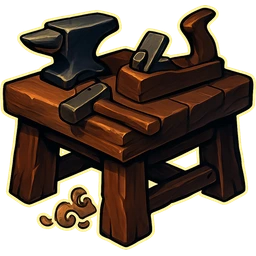
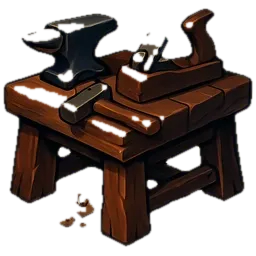
Grove menu: a slat per row, bigger sockets, no baked outline
Luke: "the menu items feel like a little too floaty, and they're not kind of
like, they don't have their own row, necessarily. It's hard to delineate
between the rows. And the sprites don't really make sense."
And: "We also never use white outlines on sprites."

Three separate faults, and only one of them was the sprites' fault.

ROWS HAD NO EDGES. A row was a transparent button on a wooden board, so the
only thing separating Backpack from Gear was the gap between two words --
which over grain reads as nothing, and makes each sprite look like it is
floating loose on the plank. A row is now a cut slat: raised face, lit top
edge, dark groove beneath, the way a stack of boards actually meets. The
groove is a box-shadow pair rather than a border, because a 1px rgba line over
grain disappears into the grain while a dark/light pair reads as a seam at any
brightness.

THE SPRITES WERE BEING SHOWN TOO SMALL TO READ. The socket was 44px with the
art at 34. These are busy paintings -- the workbench is an anvil AND a bench
AND a plane, the gear tile is a cuirass AND a sword AND a shield -- and at
34px they stop being objects and become texture. 52px socket, 46px art.

ui-bench.webp HAD A BAKED CREAM OUTLINE, which is against the house rule.
Measured rather than eyeballed: rim luminance 123.6 against a core of 33.4,
where the other four menu sprites sit within a few points of their own cores.
Stripped by killing rim pixels brighter than core+45, then hard-thresholding
[…]

diff --git a/src/components/grove/grove-css.js b/src/components/grove/grove-css.js
@@ -4012,18 +4012,43 @@ export const GROVE_CSS = `
    Not a line of text with a picture beside it. The socket is the recessed plate the sprite sits in,
    lit in the family's hue -- the same read as the gear slots and the card windows, so the menu looks
    like it came out of the same game as everything it opens. */
-.gv-mmenu section button { width: 100%; display: grid; grid-template-columns: 44px 1fr auto;
-    align-items: center; gap: 11px; padding: 7px 14px 7px 18px; cursor: pointer;
-    border: 0; border-left: 3px solid transparent; background: transparent; font: inherit;
+/* ── ⚠ EVERY ROW IS ITS OWN SLAT ─────────────────────────────────────────────────────────────
+   Luke: "the menu items feel like a little too floaty, and they're not kind of like, they don't have
+   their own row, necessarily. It's hard to delineate between the rows."
+
+   He is right, and the cause was that a row had no edges. It was a transparent button on a wooden
+   board, so the only thing separating Backpack from Gear was the gap between two words -- which on a
+   grained background reads as nothing at all, and makes each sprite look like it is floating loose on
+   the plank rather than sitting in a place that belongs to it.
+
+   So a row is now a cut slat: a slightly raised face, a dark groove beneath it and a lit top edge, the
+   way a real stack of boards meets. The groove is what you actually read -- it is the shadow between
+   two planks, so the rows are delineated by the thing that would delineate them if they were wood.
+
+   ⚠ A GROOVE, NOT A BORDER LINE. A 1px rgba line over grain disappears into the grain; two lines (one
+   dark, one light, one pixel apart) read as a physical seam at any brightness, which is why this is a
+   box-shadow pair rather than border-bottom. */
+.gv-mmenu section button { width: 100%; display: grid; grid-template-columns: 52px 1fr auto;
+    align-items: center; gap: 12px; padding: 9px 14px 9px 17px; cursor: pointer;
+    border: 0; border-left: 3px solid transparent; font: inherit;
     text-align: left; -webkit-tap-highlight-color: transparent;
+    background: linear-gradient(180deg, rgba(255,222,160,0.055), rgba(0,0,0,0.12));
+    box-shadow: inset 0 1px 0 rgba(255,222,160,0.10), 0 1px 0 rgba(0,0,0,0.55);
     transition: background 140ms ease, border-color 140ms ease, transform 120ms ease; }
-.gv-mmenu-sock { position: relative; width: 44px; height: 44px; border-radius: 10px;
+/* The last slat in a family sits against the family seam, so it does not need a groove of its own. */
+.gv-mmenu section button:last-child { box-shadow: inset 0 1px 0 rgba(255,222,160,0.10); }
+/* ── THE SOCKET ───────────────────────────────────────────────────────────────────────────────
+   ⚠ 52px, NOT 44. These sprites are busy -- the workbench is an anvil AND a bench AND a plane, the
+   gear tile is a cuirass AND a sword AND a shield -- and at 34px they stopped being objects and became
+   texture, which is most of what "the sprites don't really make sense" was pointing at. They are good
+   paintings being shown too small to read. */
+.gv-mmenu-sock { position: relative; width: 52px; height: 52px; border-radius: 11px;
     display: grid; place-items: center;
-    background: radial-gradient(ellipse 80% 70% at 50% 34%,
-        color-mix(in srgb, var(--fam) 22%, #241c10), #17110a 78%);
-    border: 1px solid color-mix(in srgb, var(--fam) 34%, #241c10);
-    box-shadow: inset 0 2px 5px rgba(0,0,0,0.75), 0 1px 0 rgba(255,222,160,0.09); }
-.gv-mmenu-sock img { width: 34px; height: 34px; object-fit: contain; display: block;
+    background: radial-gradient(ellipse 80% 70% at 50% 32%,
+        color-mix(in srgb, var(--fam) 24%, #2a2113), #140f08 80%);
+    border: 1px solid color-mix(in srgb, var(--fam) 38%, #241c10);
+    box-shadow: inset 0 2px 6px rgba(0,0,0,0.8), 0 1px 0 rgba(255,222,160,0.1); }
+.gv-mmenu-sock img { width: 46px; height: 46px; object-fit: contain; display: block;
     filter: drop-shadow(0 2px 3px rgba(0,0,0,0.75)); }
 .gv-mmenu section button b { display: block; font-size: 0.88rem; font-weight: 800; color: #f6edda;
     text-shadow: 0 1px 2px rgba(0,0,0,0.8); }
@@ -4034,11 +4059,14 @@ export const GROVE_CSS = `
     padding: 2px 8px; border-radius: 999px; color: #1a1408;
     background: linear-gradient(180deg, color-mix(in srgb, var(--fam) 92%, #fff), var(--fam));
     box-shadow: 0 0 11px color-mix(in srgb, var(--fam) 60%, transparent), 0 1px 0 rgba(0,0,0,0.4); }
-.gv-mmenu section button:hover { background: linear-gradient(90deg,
-    color-mix(in srgb, var(--fam) 13%, transparent), transparent 72%); }
+.gv-mmenu section button:hover { background:
+    linear-gradient(90deg, color-mix(in srgb, var(--fam) 15%, transparent), transparent 74%),
+    linear-gradient(180deg, rgba(255,222,160,0.09), rgba(0,0,0,0.1)); }
 .gv-mmenu section button:active { transform: translateX(2px); }
 .gv-mmenu section button.is-on { border-left-color: var(--fam);
-    background: linear-gradient(90deg, color-mix(in srgb, var(--fam) 20%, transparent), transparent 76%); }
+    background:
+        linear-gradient(90deg, color-mix(in srgb, var(--fam) 22%, transparent), transparent 78%),
+        linear-gradient(180deg, rgba(255,222,160,0.09), rgba(0,0,0,0.1)); }
 .gv-mmenu section button.is-on b { color: var(--fam); }
 
 /* ── THE FOOTER IS FOR SETTINGS ───────────────────────────────────────────────────────────────

diff --git a/src/components/grove/GroveClient.js b/src/components/grove/GroveClient.js
@@ -138,7 +138,7 @@ const FAMILIES = [
     },
     {
         title: "Make", rows: [
-            { k: "bench", label: "Workbench", art: "/images/grove/ui-bench.webp", note: "spend parts" },
+            { k: "bench", label: "Workbench", art: "/images/grove/ui-bench.webp?v=2", note: "spend parts" },
         ],
     },
 ];

diff --git a/src/components/grove/GroveScene.js b/src/components/grove/GroveScene.js
@@ -157,7 +157,7 @@ const ZONE_FAMILIES = [
     },
     {
         title: "Make", rows: [
-            { k: "bench", label: "Workbench", art: "/images/grove/ui-bench.webp" },
+            { k: "bench", label: "Workbench", art: "/images/grove/ui-bench.webp?v=2" },
         ],
     },
 ];
